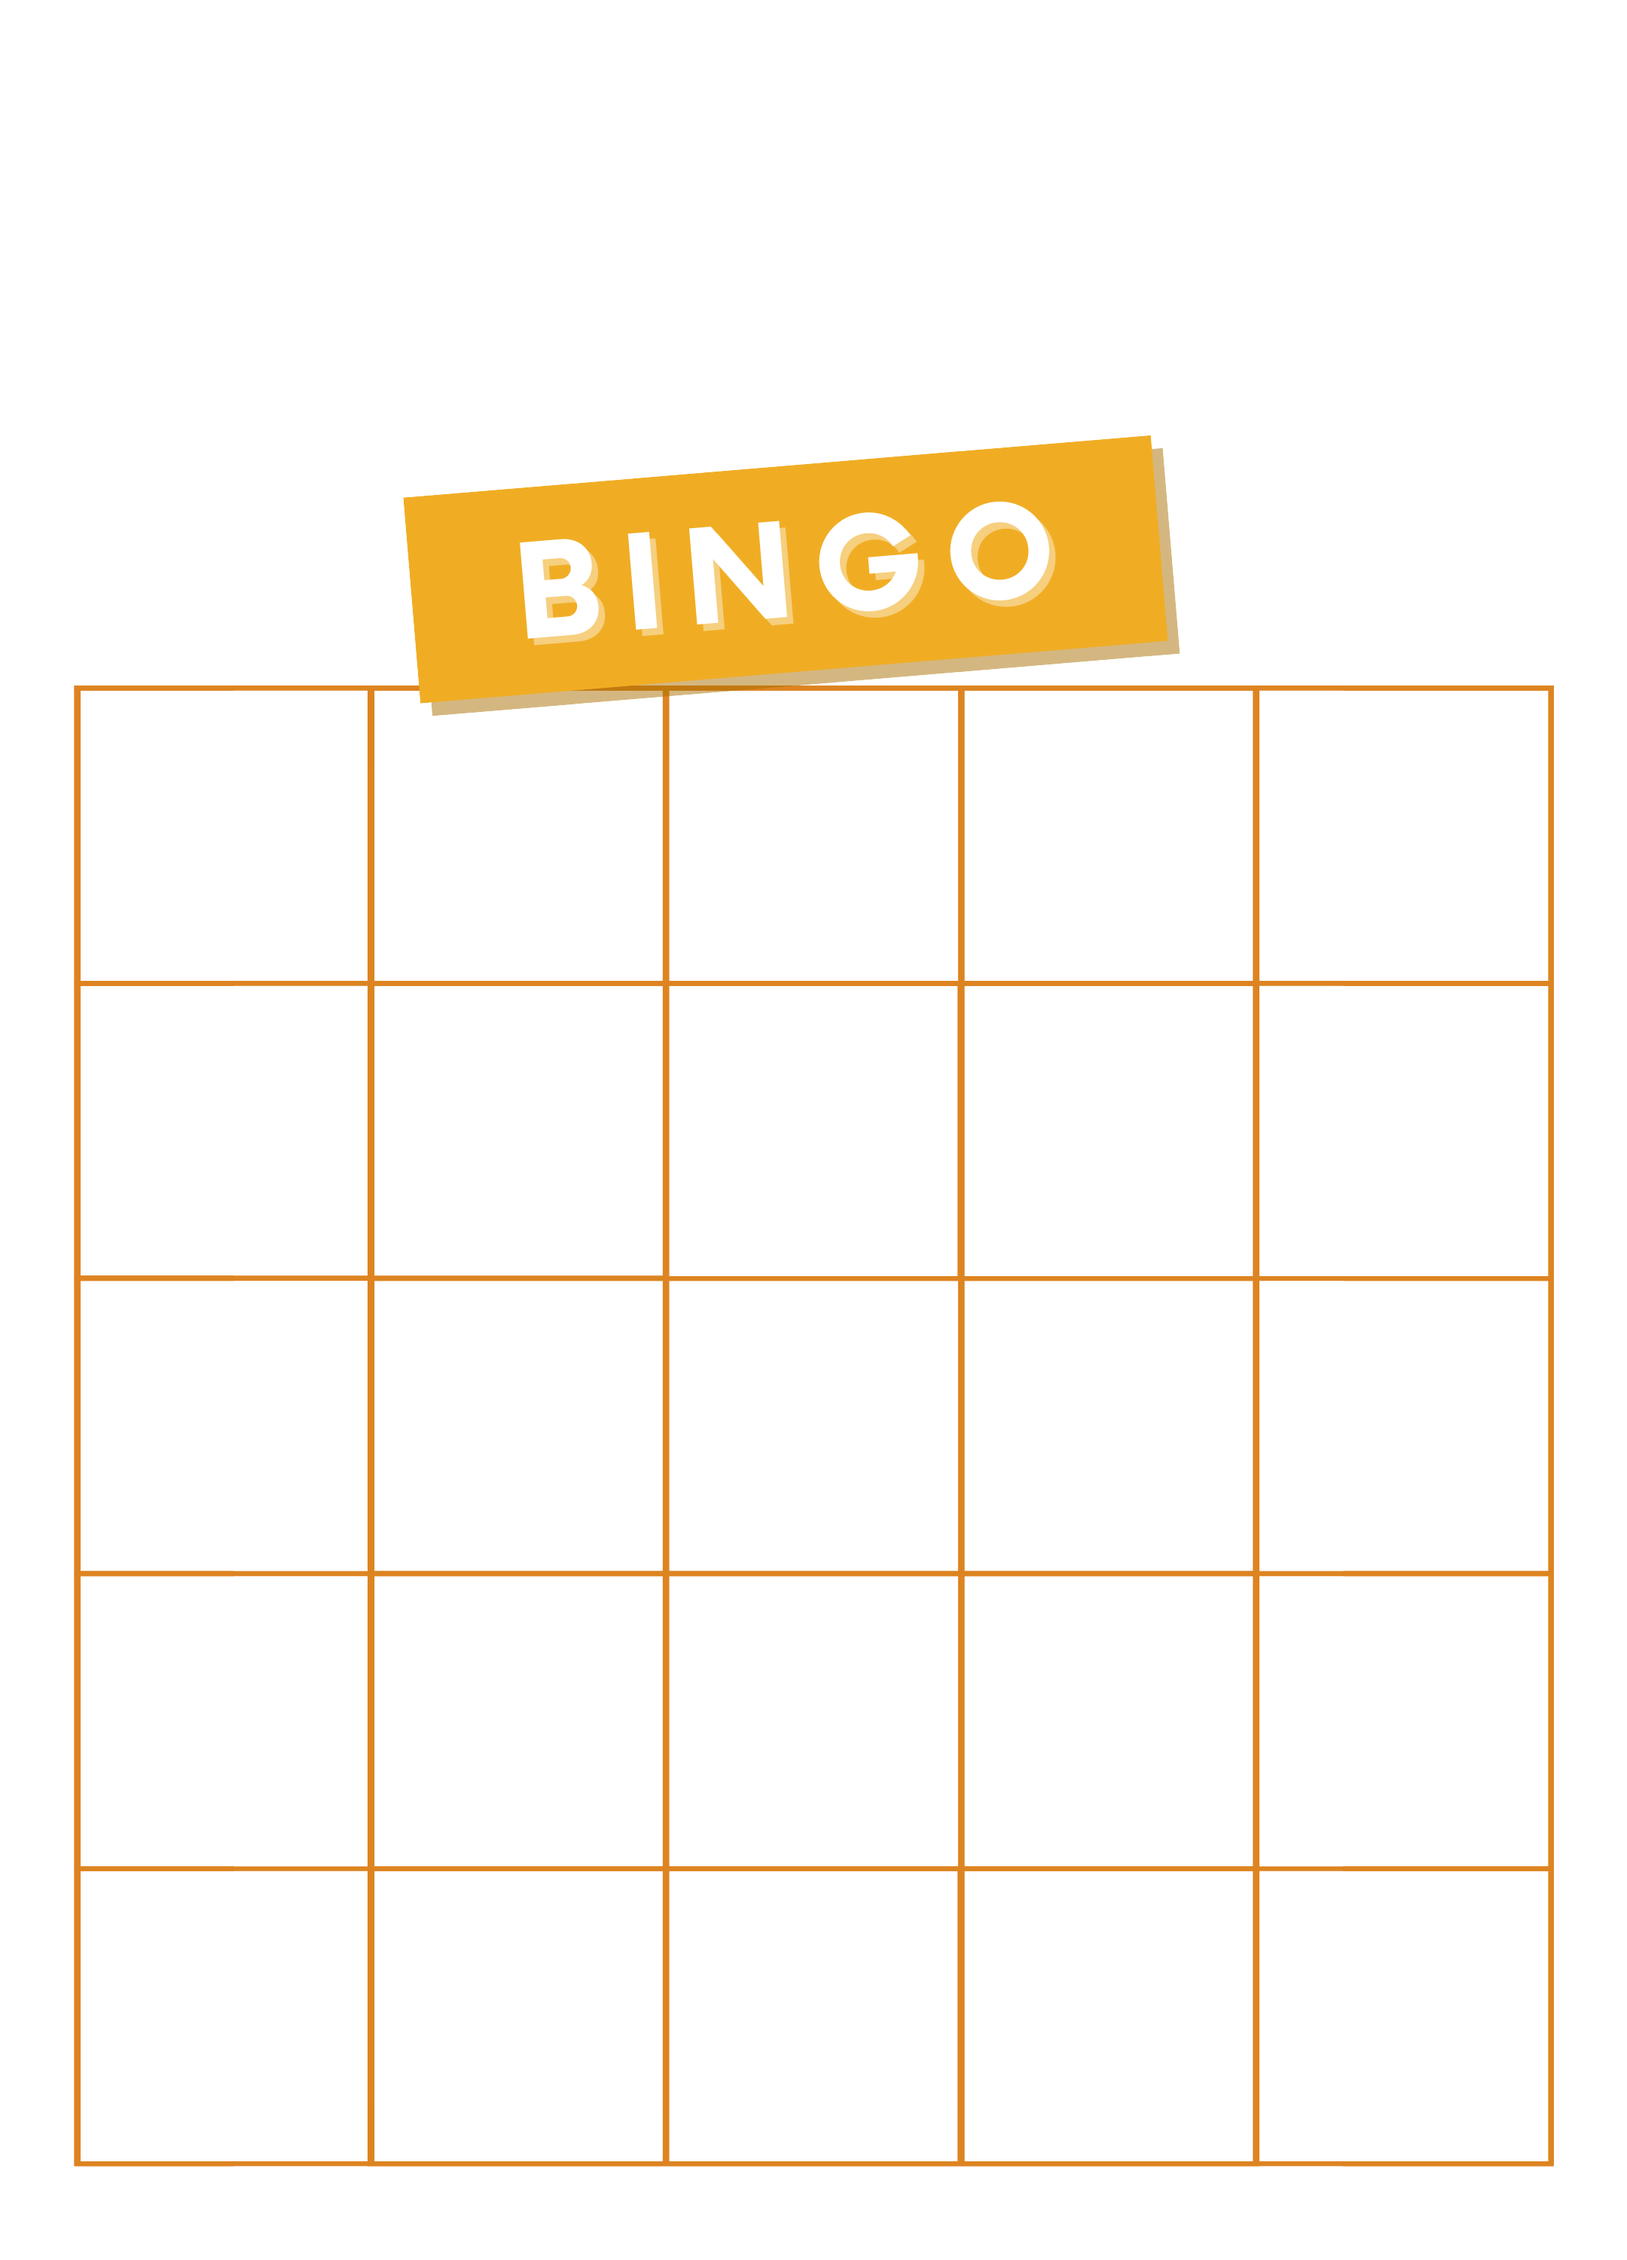
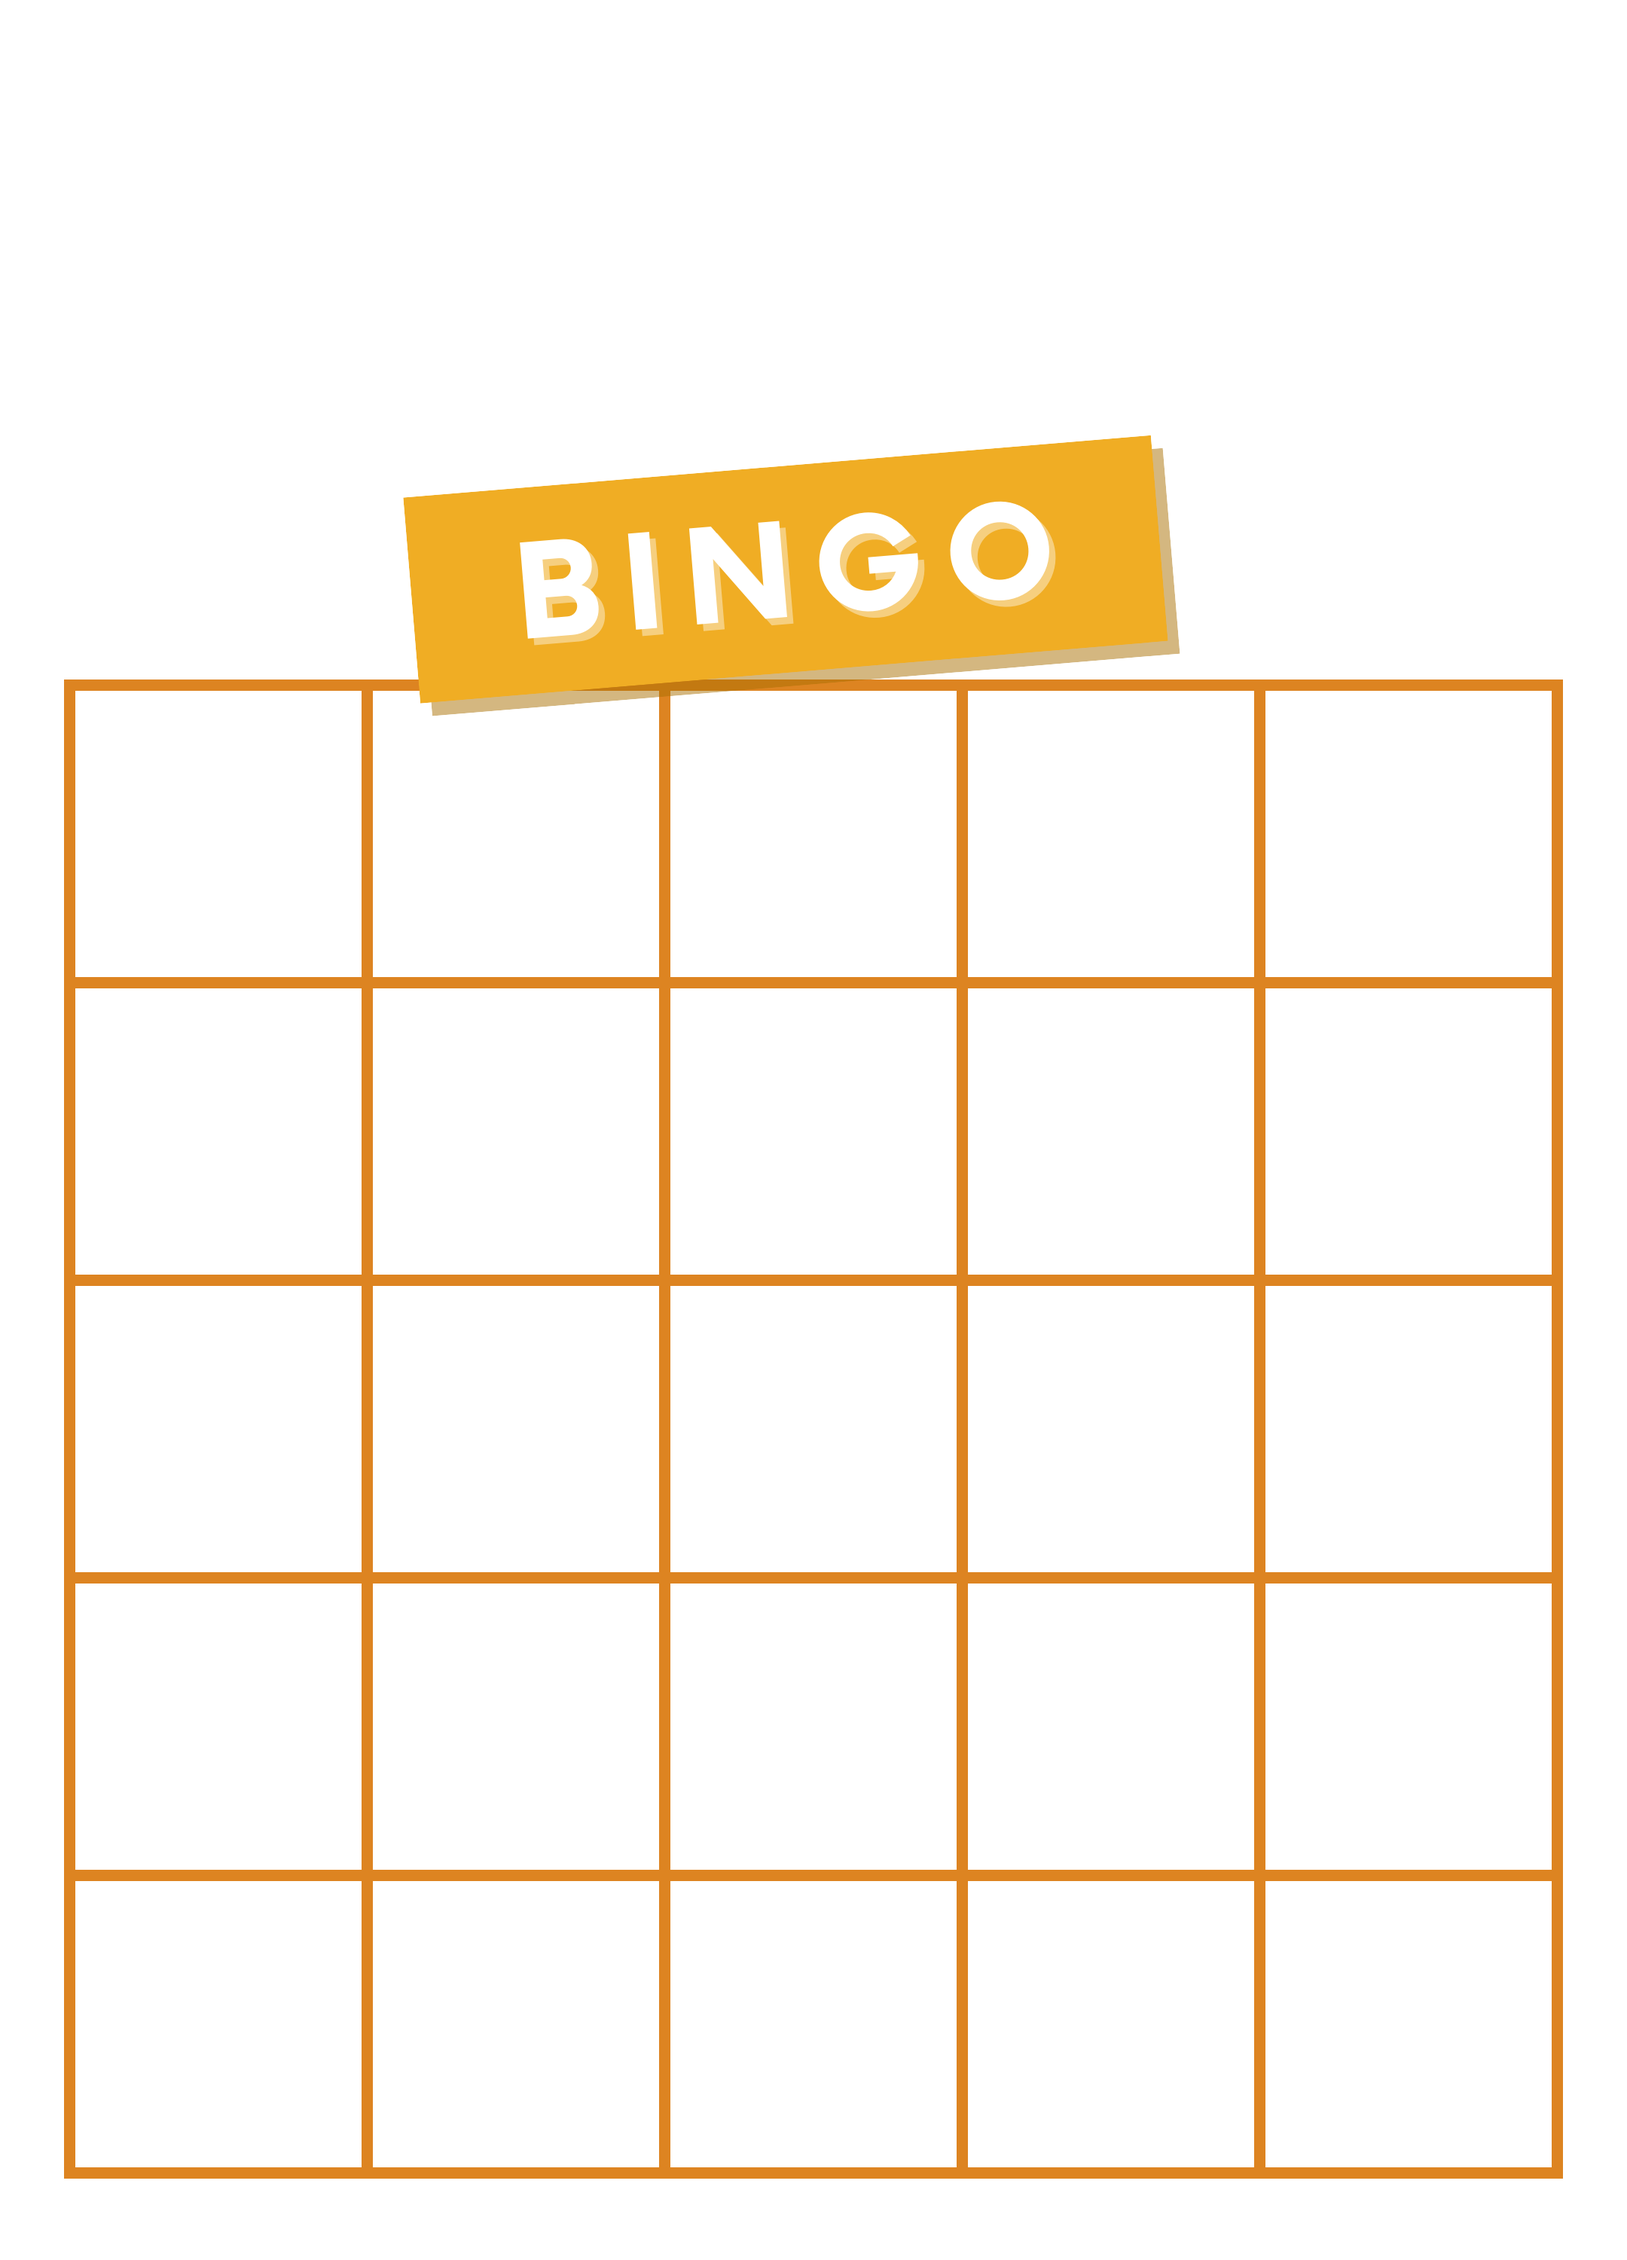
Redesigned background and foreground for uniform grid area for 380x380 tiles. Added foreground_free.png for free tile overlay option. Modified overlay code to allow switching between foreground files and fixed a bug with transparency mattes when overlaying to the new background.png file. Redeployed 

diff --git a/generator.py b/generator.py
@@ -38,7 +38,7 @@ def generate_board():
     weights = [(weight_settings["default-weight"] if tile not in weight_settings["overrides"]
                 else weight_settings["overrides"][tile]) for tile in tiles_files]
     tiles_files = wsample(tiles_files, tile_count, weights)
-    image = Image.open("backdrops/background.jpg")
+    background = Image.open("backdrops/background.png")
     counter = 0
     for y in range(settings["dimensions"][1]):
         for x in range(settings["dimensions"][0]):
@@ -49,11 +49,15 @@ def generate_board():
                 tile = Image.open(os.path.join("tiles", settings["free-tile"]["image"]))
             coordinates = [settings["top-left"][0] + settings["offset"][0] * x,
                            settings["top-left"][1] + settings["offset"][1] * y]
-            image.paste(tile, (coordinates[0], coordinates[1]))
+            background.paste(tile, (coordinates[0], coordinates[1]))
             counter += 1
-    overlay = Image.open("backdrops/foreground.png")
-    image.paste(overlay, (0, 0), overlay)
-    return image
+    # use foreground containing "Free" overlay
+    if settings["free-tile"]["activated"]:
+        overlay = Image.open("backdrops/foreground_free.png")
+    else:
+        overlay = Image.open("backdrops/foreground.png")
+    final_image = Image.alpha_composite(background, overlay)
+    return final_image
 
 
 if __name__ == "__main__":
